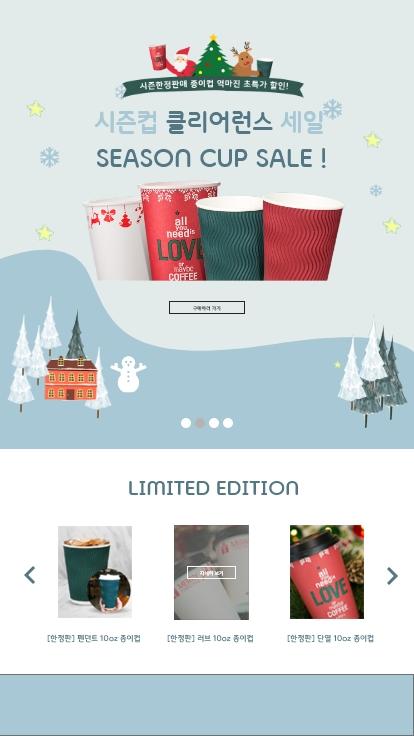
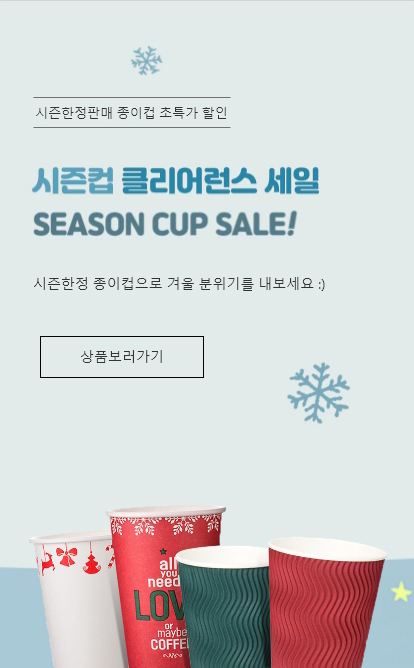
메인 비주얼 이미지 슬라이더 효과

diff --git a/js/main.js b/js/main.js
@@ -12,3 +12,15 @@ $(function(){
         $('#gnb').hide();
     });
 });
+
+// 이미지 슬라이더 : fade효과
+let num = 1;
+let slider = setInterval(function(){
+  if(num > 2) { num = 0; }
+  // 전체 이미지 fade out
+  $('.slider > img').removeClass('show');
+  // 다음 이미지 표시
+  $('.slider > img').eq(num).addClass('show');
+  console.log(num)
+  num++;
+}, 3000);

diff --git a/css/style.css b/css/style.css
@@ -200,5 +200,22 @@
   #gnb > ul > li > a {
     color: black;
   }
+/* 메인베너 슬라이더 이미지 영역 */
+  .slider {
+    width: 100%;
+    height: calc(100vh - 68px);
+    position: relative;
+  }
+
+  .slider > img {
+    position: absolute;
+    left: 0; top: 0;
+    opacity: 0;
+    transition-duration: 2s;
+  }
+
+  .slider > img.show {
+    opacity: 1;
+  }
 
   

diff --git a/index.html b/index.html
@@ -45,7 +45,11 @@
   </header>
 
   <section id="main_visual">
-      <img src="./image/banner04@2x.jpg" alt="">
+    <div class="slider">
+      <img src="./image/banner04@2x.jpg" alt="3">
+      <img src="./image/banner03@2x.jpg" alt="2">
+      <img src="./image/banner02@2x.jpg" alt="1">
+    </div>
   </section>
 
   <section id="about">
